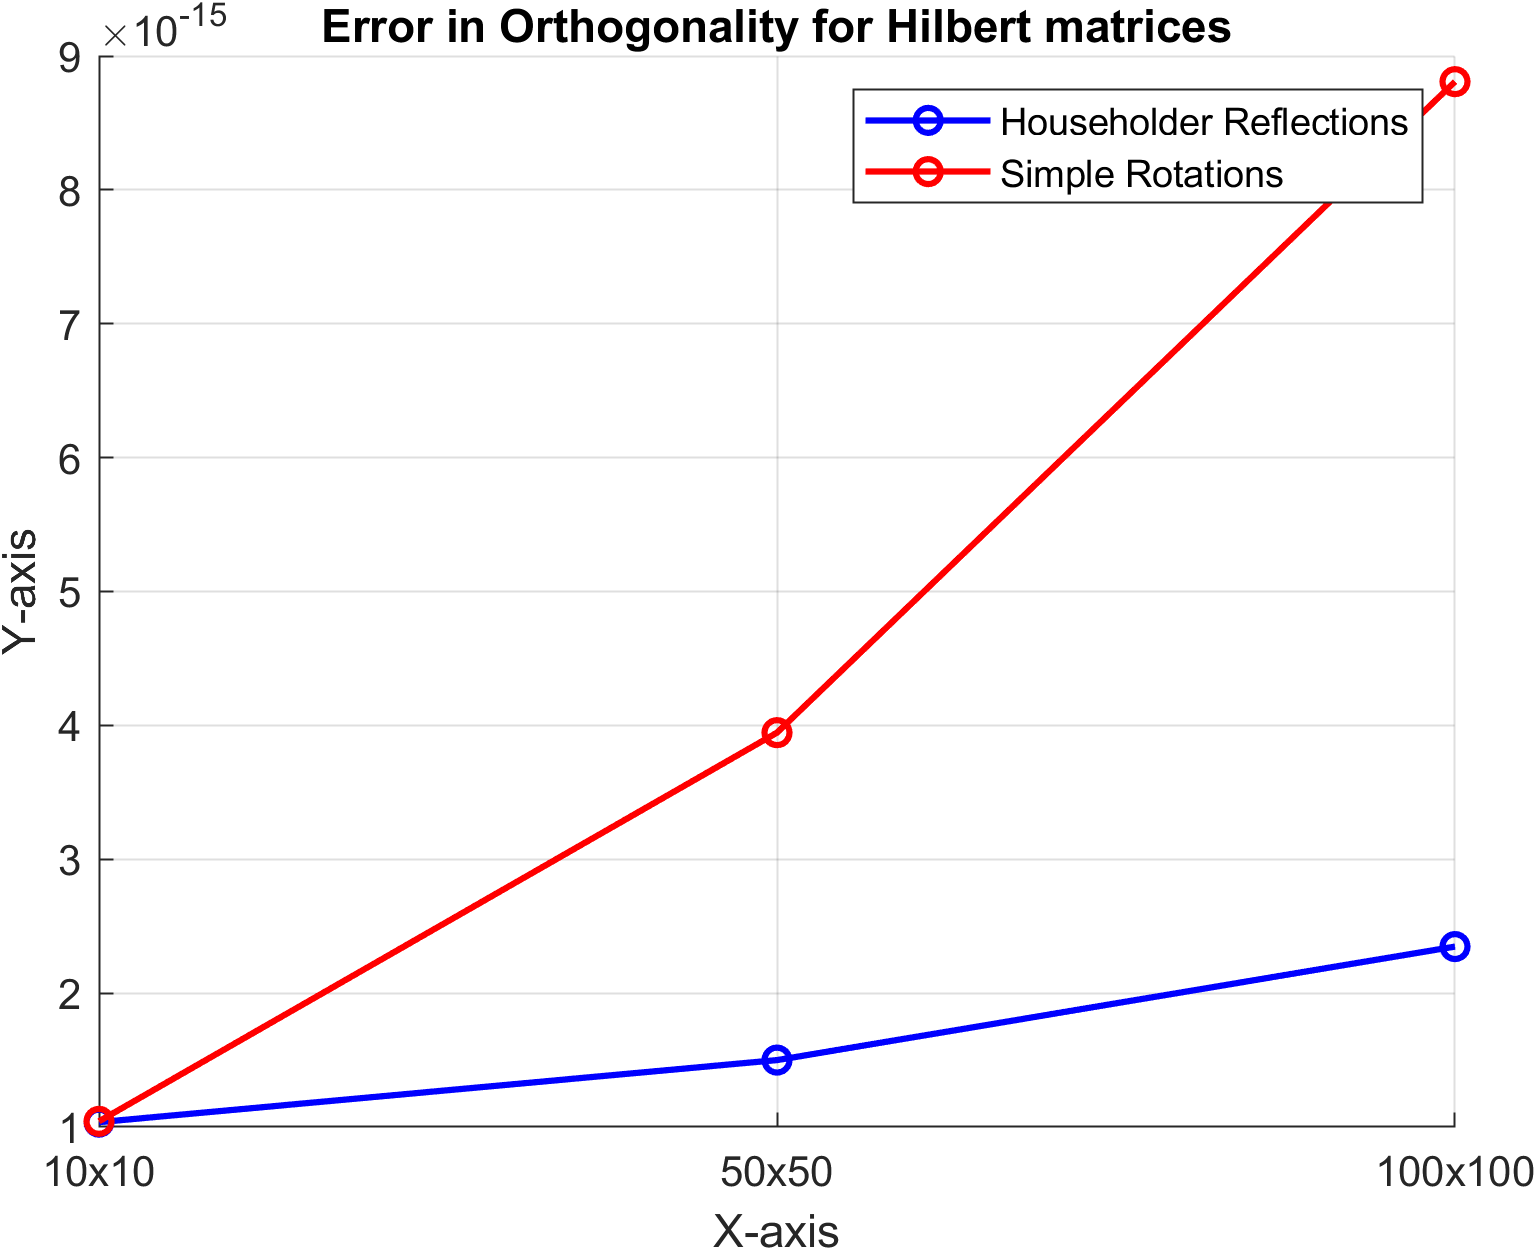
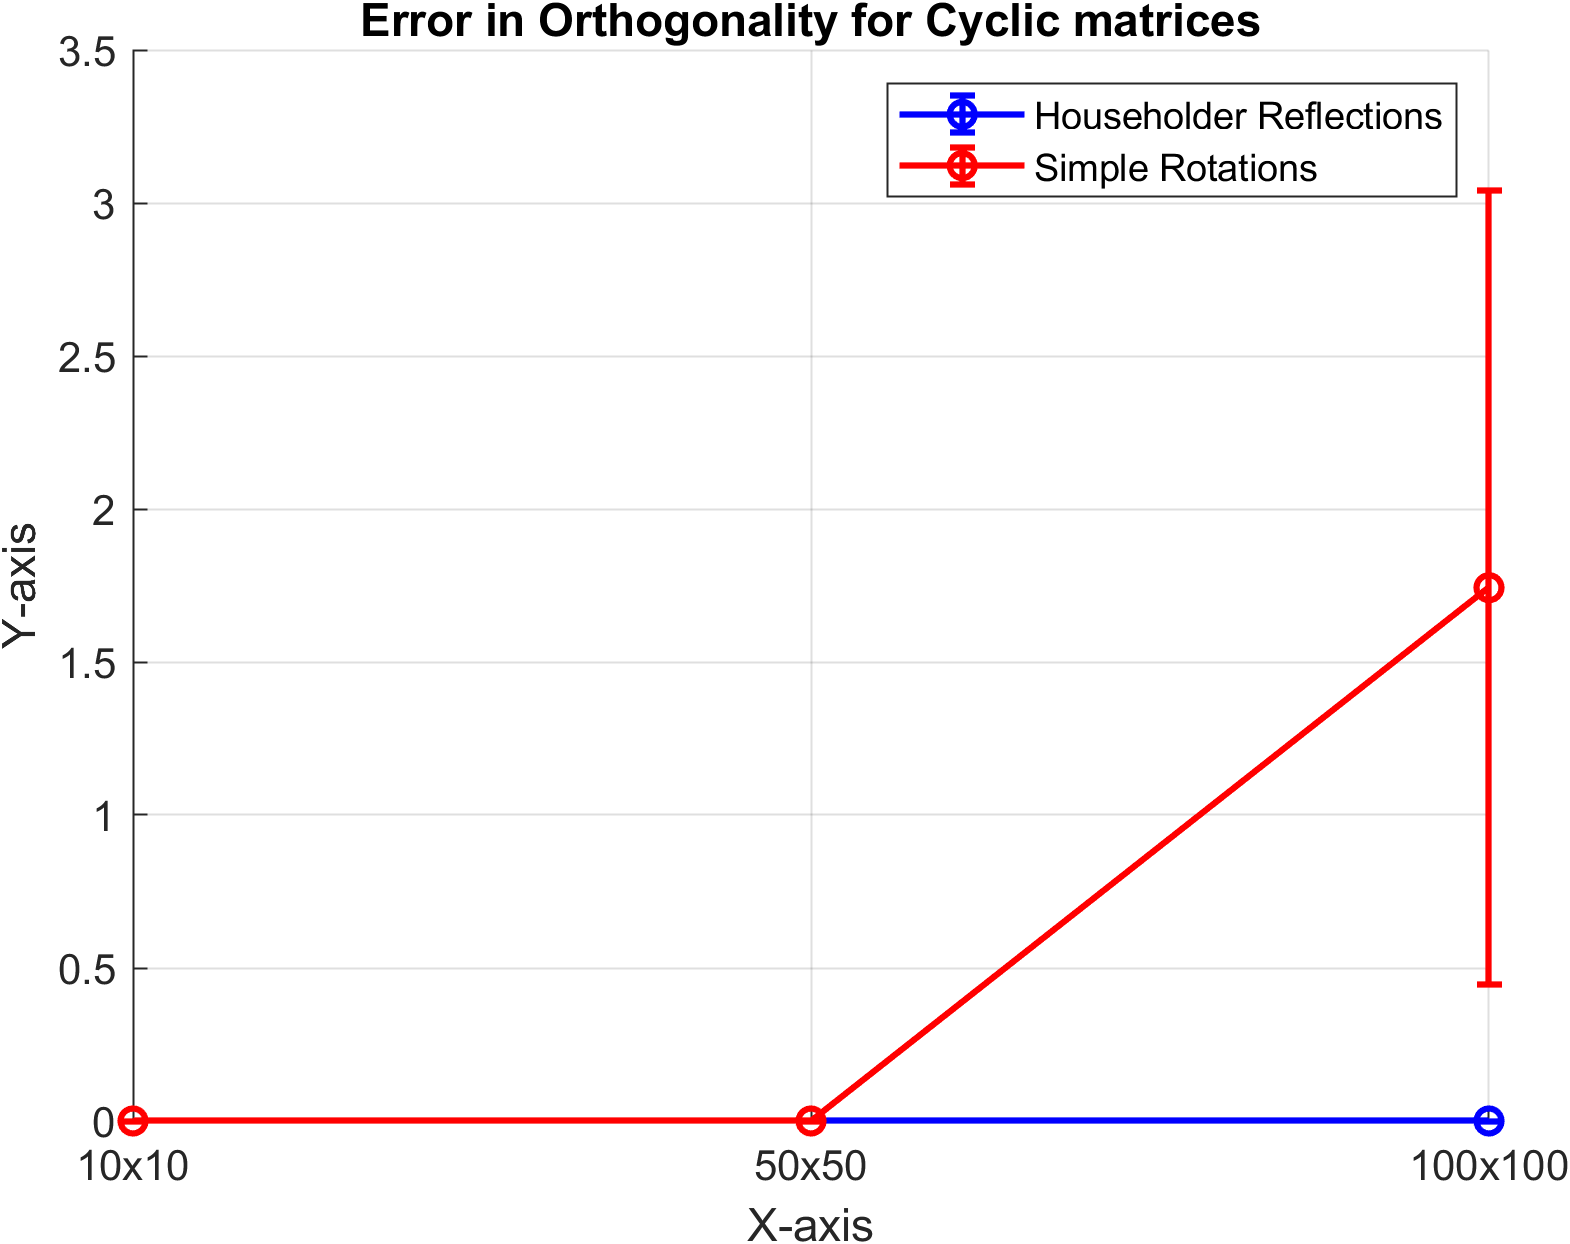
fixing errors on projection and colspace

diff --git a/SimpleRotations.m b/SimpleRotations.m
@@ -4,8 +4,9 @@ matrixsizes = { [10, 5], [100, 50], [300,70] };
 numrand = size(matrixsizes,2);
  
 %todo - add extra test matrices as a cell
-testmatrices = {hilb(10), hilb(50), hilb(100)};
-numtest = size(testmatrices,2);
+%testmatrices = {gallery("cycol",10, 3), gallery("cycol",50, 3), gallery("cycol",100, 3)};
+cyclematrices = {10,50,100};
+numtest = size(cyclematrices,2);
 
 numiterations = 10;
 
@@ -16,8 +17,7 @@ numiterations = 10;
 % second element is columnspace test
 % third is projection test
 testarray = [1 1 1];
-
-[orth_result, col_result, proj_result] = householdervsimpleQR(matrixsizes, numiterations, testarray, testmatrices);
+[orth_result, col_result, proj_result] = householdervsimpleQR(matrixsizes, numiterations, testarray, cyclematrices);
 
 plotting(orth_result, col_result, proj_result, numrand, numtest);
 %OBS,if changing the dimensions and types of testmatrices, you have to
@@ -79,10 +79,11 @@ function [orth_result, col_result, proj_result] = householdervsimpleQR(matrixsiz
                     %Do what is already here
                  A = randn(matrixsizes{i});
             else
-                if j>1
-                    break;
-                end
-                A = testmatrices{i-numel(matrixsizes)};
+                %if j>1
+                %    break;
+                %end
+                %A = testmatrices{i-numel(matrixsizes)};
+                A = gallery("cycol",testmatrices{i-numel(matrixsizes)}, 3);
             end
            
                 [Q_house, R_house] = qr(A);
@@ -96,59 +97,62 @@ function [orth_result, col_result, proj_result] = householdervsimpleQR(matrixsiz
                 
                 %COLOMN SPACE
                 if testarray(2)
+                    
                     colA = orth((A));
-                    colhouse = orth((Q_house*R_house));
-                    colsimple = orth((Q_simple*R_simple));
 
-                    column_error_house(j) = norm(colA - colhouse,2);
-                    column_error_simple(j) = norm(colA - colsimple,2);
+                    colhouse = orth((Q_house));
+                    colsimple = orth((Q_simple));
+
+                    column_error_house(j)  = subspace(colA,colhouse);
+                    column_error_simple(j) = subspace(colA,colsimple);
                 end
                 
                 %PROJECTION
                 if testarray(3)
-                    proj_error_house(j,1) = norm(A - Q_house*Q_house'* A,2);
-                    proj_error_simple(j,1) = norm(A - Q_simple*Q_simple'* A,2);
-                    proj_error_house(j,2) = norm(0 - (eye(size(A,1)) - Q_house*Q_house')* A,2);
-                    proj_error_simple(j,2) = norm(0 - (eye(size(A,1)) - Q_simple*Q_simple')* A,2);
+                    disp(i);
+                    proj_error_house(j,1) = norm(A - Q_house*inv(Q_house'*Q_house)*Q_house'* A,2);
+                    proj_error_simple(j,1) = norm(A - Q_simple*inv(Q_simple'*Q_simple)*Q_simple'* A,2);
+                    proj_error_house(j,2) = norm(0 - (eye(size(A,1)) - Q_house'*inv(Q_house*Q_house')*Q_house)* A,2);
+                    proj_error_simple(j,2) = norm(0 - (eye(size(A,1)) -Q_simple'*inv(Q_simple*Q_simple')*Q_simple)* A,2);
                 end
                 
             
         end
         %Create mean and variance and add it to cell array
         if testarray(1)
-            if i <= numel(matrixsizes)
+            %if i <= numel(matrixsizes)
                 orth_result{i,1} = mean(orthogonal_error_house);
                 orth_result{i,2} = mean(orthogonal_error_simple);
                 orth_result{i,3} = var(orthogonal_error_house);
                 orth_result{i,4} = var(orthogonal_error_simple); 
-            else 
-                orth_result{i,1} = orthogonal_error_house(1);
-                orth_result{i,2} = orthogonal_error_simple(1);
-            end
+            %else 
+            %    orth_result{i,1} = orthogonal_error_house(1);
+            %    orth_result{i,2} = orthogonal_error_simple(1);
+            %end
         end
         
         if testarray(2)
-            if i <= numel(matrixsizes)
+            %if i <= numel(matrixsizes)
                 col_result{i,1} = mean(column_error_house);
                 col_result{i,2} = mean(column_error_simple);
                 col_result{i,3} = var(column_error_house);
                 col_result{i,4} = var(column_error_simple); 
-            else
-                col_result{i,1} = column_error_house(1);
-                col_result{i,2} = column_error_simple(1);
-            end
+            %else
+            %    col_result{i,1} = column_error_house(1);
+            %    col_result{i,2} = column_error_simple(1);
+            %end
         end
         
         if testarray(3)
-            if i <= numel(matrixsizes)
+            %if i <= numel(matrixsizes)
                 proj_result{i,1} = mean(proj_error_house);
                 proj_result{i,2} = mean(proj_error_simple);
                 proj_result{i,3} = var(proj_error_house);
                 proj_result{i,4} = var(proj_error_simple);  
-            else
-                proj_result{i,1} = proj_error_house(1,:);
-                proj_result{i,2} = proj_error_simple(1,:);
-            end
+            %else
+            %    proj_result{i,1} = proj_error_house(1,:);
+            %    proj_result{i,2} = proj_error_simple(1,:);
+            %end
         end
         
 
@@ -170,6 +174,9 @@ function [Q, R] = SimpleQR(A)
 
     for i=1:M-1
         A_i = A_aug(i:end, i:end);
+        if A_i(:,1) == zeros(size(A_i(:,1)))
+            break;
+        end
         x = A_i(:,1);
 
         length = size(x,1);
@@ -248,28 +255,45 @@ function[] = plotting(orth_result, col_result, proj_result, numrand, numtest)
     exportgraphics(f,'plot1.png','Resolution',300)
 
     
-    %HILBERT
+    %Cyclic
+    
+    % Define the y-values for dataset one
+    %y1 = cell2mat( orth_result(numrand+1:end,1));
+
+    % Define the y-values for dataset two
+    %y2 = cell2mat( orth_result(numrand+1:end,2));
     
     % Define the y-values for dataset one
     y1 = cell2mat( orth_result(numrand+1:end,1));
 
+    % Define the variances for dataset one
+    var1 = cell2mat( orth_result(numrand+1:end,3));
+
     % Define the y-values for dataset two
     y2 = cell2mat( orth_result(numrand+1:end,2));
 
+    % Define the variances for dataset two
+    var2 = cell2mat( orth_result(numrand+1:end,4));
     % Create the figure and axes
     figure;
     hold on;
 
     % Plot the first dataset with error bars
-    plot( xtest,y1,  '-bo', 'LineWidth', 1.5);
+    %plot( xtest,y1,  '-bo', 'LineWidth', 1.5);
 
     % Plot the second dataset with error bars
-    plot( xtest,y2, '-ro', 'LineWidth', 1.5);
+    %plot( xtest,y2, '-ro', 'LineWidth', 1.5);
+    
+    % Plot the first dataset with error bars
+    errorbar( xtest,y1, var1.^(1/2), '-bo', 'LineWidth', 1.5);
+
+    % Plot the second dataset with error bars
+    errorbar( xtest,y2, var2.^(1/2), '-ro', 'LineWidth', 1.5);
 
     % Set the axis labels and title
     xlabel('X-axis');
     ylabel('Y-axis');
-    title('Error in Orthogonality for Hilbert matrices');
+    title('Error in Orthogonality for Cyclic matrices');
     xticks(xtest)
     xticklabels({'10x10', '50x50', '100x100'});
 
@@ -327,28 +351,43 @@ function[] = plotting(orth_result, col_result, proj_result, numrand, numtest)
     exportgraphics(f,'plot3.png','Resolution',300)
 
     
-    %HILBERT
+    %Cyclic
     
     % Define the y-values for dataset one
-    y1 = cell2mat( col_result(numrand+1:end,1));
+    %y1 = cell2mat( col_result(numrand+1:end,1));
+
+    % Define the y-values for dataset two
+   %y2 = cell2mat( col_result(numrand+1:end,2));
+    
+    
+        % Define the y-values for dataset one
+    y1 =cell2mat(  col_result(numrand+1:end,1));
+
+    % Define the variances for dataset one
+    var1 = cell2mat( col_result(numrand+1:end,3));
 
     % Define the y-values for dataset two
     y2 = cell2mat( col_result(numrand+1:end,2));
+
+    % Define the variances for dataset two
+    var2 = cell2mat( col_result(numrand+1:end,4));
+    
+    
 
     % Create the figure and axes
     figure;
     hold on;
 
     % Plot the first dataset with error bars
-    plot( xtest,y1,  '-bo', 'LineWidth', 1.5);
+    errorbar( xtest,y1, var1.^(1/2), '-bo', 'LineWidth', 1.5);
 
     % Plot the second dataset with error bars
-    plot( xtest,y2, '-ro', 'LineWidth', 1.5);
+    errorbar( xtest,y2, var2.^(1/2), '-ro', 'LineWidth', 1.5);
 
     % Set the axis labels and title
     xlabel('X-axis');
     ylabel('Y-axis');
-    title('Error in Column space for Hilbert matrices');
+    title('Error in Column space for Cyclic matrices');
     xticks(xtest)
     xticklabels({'10x10', '50x50', '100x100'});
 
@@ -402,7 +441,7 @@ function[] = plotting(orth_result, col_result, proj_result, numrand, numtest)
     % Set the axis labels and title
     xlabel('X-axis');
     ylabel('Y-axis');
-    title('Error in Projection with QQ^T for random mtx');
+    title('Error in Projection onto col(Q) for randn mtx');
     xticks(xrand)
     xticklabels({'10x5', '100x50', '300x70'});
 
@@ -430,7 +469,7 @@ function[] = plotting(orth_result, col_result, proj_result, numrand, numtest)
     % Set the axis labels and title
     xlabel('X-axis');
     ylabel('Y-axis');
-    title('Error in Projection with I-QQ^T for random mtx');
+    title('Error in Projection onto null(Q) for randn mtx');
     xticks(xrand)
     xticklabels({'10x5', '100x50', '300x70'});
 
@@ -445,32 +484,41 @@ function[] = plotting(orth_result, col_result, proj_result, numrand, numtest)
     exportgraphics(f,'plot6.png','Resolution',300)
 
     
-    %HILBERT
+    %Cyclic
     
     % Define the y-values for dataset one
     y1 = cell2mat( proj_result(numrand+1:end,1));
     y1_1 = y1(:,1);
     y1_2 = y1(:,2);
     
+    var1 = cell2mat( proj_result(numrand+1:end,3));
+    var1_1 = var1(:,1);
+    var1_2 = var1(:,2);
+    
     % Define the y-values for dataset two
     y2 = cell2mat( proj_result(numrand+1:end,2));
     y2_1 = y2(:,1);
     y2_2 = y2(:,2);
+    
+    % Define the variances for dataset two
+    var2 = cell2mat( proj_result(numrand+1:end,4));
+    var2_1 = var2(:,1);
+    var2_2 = var2(:,2);
     
     % Create the figure and axes
     figure;
     hold on;
 
     % Plot the first dataset with error bars
-    plot( xtest,y1_1,  '-bo', 'LineWidth', 1.5);
+    errorbar( xrand,y1_1, var1_1.^(1/2), '-bo', 'LineWidth', 1.5);
 
     % Plot the second dataset with error bars
-    plot( xtest,y2_1, '-ro', 'LineWidth', 1.5);
+    errorbar( xrand,y2_1, var2_1.^(1/2), '-ro', 'LineWidth', 1.5);
 
     % Set the axis labels and title
     xlabel('X-axis');
     ylabel('Y-axis');
-    title('Error in Projection with QQ^T for Hilbert mtx');
+    title('Error in Projection onto col(Q) for Cyclic mtx');
     xticks(xtest)
     xticklabels({'10x10', '50x50', '100x100'});
 
@@ -491,15 +539,15 @@ function[] = plotting(orth_result, col_result, proj_result, numrand, numtest)
     hold on;
 
     % Plot the first dataset with error bars
-    plot( xtest,y1_2,  '-bo', 'LineWidth', 1.5);
+    errorbar( xrand,y1_2, var1_2.^(1/2), '-bo', 'LineWidth', 1.5);
 
     % Plot the second dataset with error bars
-    plot( xtest,y2_2, '-ro', 'LineWidth', 1.5);
+    errorbar( xrand,y2_2, var2_2.^(1/2), '-ro', 'LineWidth', 1.5);
 
     % Set the axis labels and title
     xlabel('X-axis');
     ylabel('Y-axis');
-    title('Error in Projection of with I-QQ^T for Hilbert mtx');
+    title('Error in Projection onto null(Q) for Cyclic mtx');
     xticks(xtest)
     xticklabels({'10x10', '50x50', '100x100'});
 
